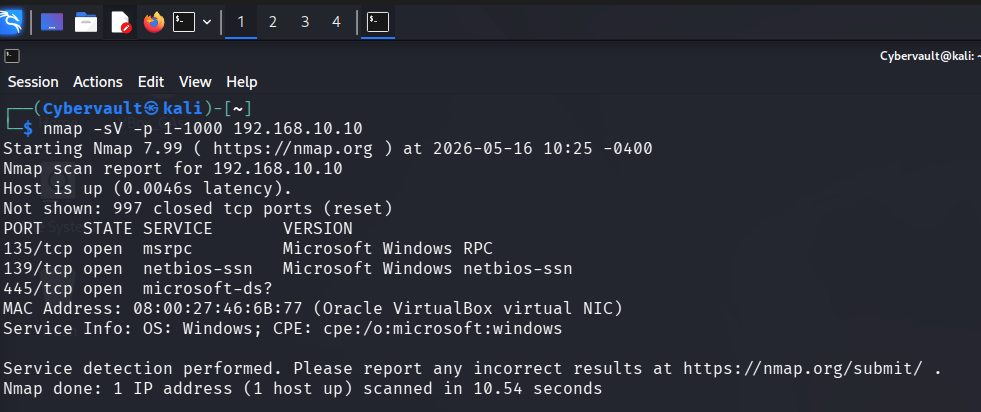
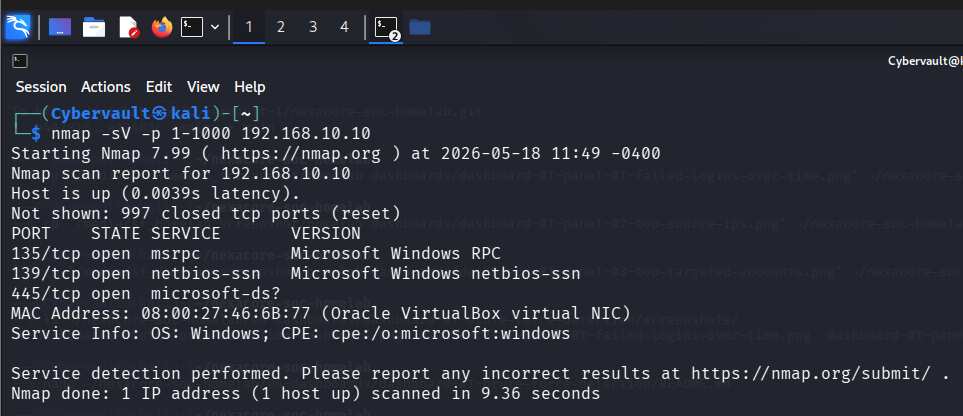
Rewrite sim-02 README with consistent structure, 18 May timestamps and fresh screenshots

Changed region(s): [[0.0, 0.0, 0.6854, 0.8155], [0.0, 0.8738, 0.9657, 0.9612], [0.8723, 0.1165, 1.0, 0.1748]]

diff --git a/03-attack-simulations/sim-02-nmap-reconnaissance/README.md b/03-attack-simulations/sim-02-nmap-reconnaissance/README.md
@@ -1,79 +1,126 @@
-# Simulation 02 — Nmap Reconnaissance
+# Attack Simulation 02 — Nmap Reconnaissance
 
-## Overview
+## Simulation Metadata
 
-This simulation replicates the reconnaissance phase of a real attack. Before an attacker launches any exploit, they first scan the target network to discover open ports and running services. This intelligence tells them which attack paths are available and what vulnerabilities to look for.
-
-This technique maps to MITRE ATT&CK T1046 — Network Service Discovery.
-
-## Attack Details
-
-| Field | Value |
-|---|---|
-| Attack Type | Network Port Scan |
-| Tool Used | Nmap 7.99 |
-| Attacker Machine | Kali Linux |
-| Attacker IP | 192.168.10.20 |
-| Target Machine | NEXACORE-WS01 |
-| Target IP | 192.168.10.10 |
-| Ports Scanned | 1 to 1000 |
+| Field | Detail |
+| --- | --- |
+| Simulation ID | SIM-02 |
+| Date | 18 May 2026 |
+| Author | Adedeji Adetayo |
+| Status | Complete |
 | MITRE Technique | T1046 — Network Service Discovery |
-| Date | 16 May 2026 |
+| Linked Detection | [DET-02 — Nmap Reconnaissance](../../04-detections/detection-02-nmap-reconnaissance/README.md) |
+| Linked Incident Report | [IR-002 — Nmap Reconnaissance](../../05-incident-reports/IR-002-nmap-reconnaissance/README.md) |
 
-## Attack Execution
+---
 
-The following command was run from Kali Linux to scan the target endpoint for open ports and identify running services:
+## Objective
 
-```bash
+The objective of this simulation was to perform a network port scan against NEXACORE-WS01 from Kali Linux using Nmap, and to verify that the scan generates detectable evidence in Splunk through Windows Filtering Platform Event ID 5156 connection events.
+
+This simulation replicates the reconnaissance phase of a real attack. Before launching any exploit, an attacker first scans the target to discover open ports and running services. This intelligence reveals which attack paths are available. In this environment discovering port 445 open directly connects to SIM-01, where the same port was targeted in a brute force attack, forming a realistic attack chain.
+
+---
+
+## Environment
+
+| Role | Machine | IP Address | OS |
+| --- | --- | --- | --- |
+| Attacker | Kali Linux | 192.168.10.20 | Kali Linux 2024.4 |
+| Target | NEXACORE-WS01 | 192.168.10.10 | Windows Server 2019 |
+| Domain Controller | NexaCore-DC01 | 192.168.10.1 | Windows Server 2019 |
+| SIEM | Splunk Enterprise | 192.168.56.1 | Host Machine |
+
+---
+
+## MITRE ATT&CK Mapping
+
+| Field | Detail |
+| --- | --- |
+| Tactic | Discovery |
+| Technique | Network Service Discovery |
+| Technique ID | T1046 |
+| Reference | https://attack.mitre.org/techniques/T1046/ |
+
+---
+
+## Prerequisites — Security Configuration That Enabled Detection
+
+The following configuration was applied to NEXACORE-WS01 before the simulation to ensure the scan activity would be captured in the Windows Security log and forwarded to Splunk.
+
+| Configuration | Detail |
+| --- | --- |
+| Windows Filtering Platform auditing enabled | The command `auditpol /set /subcategory:"Filtering Platform Connection" /success:enable /failure:enable` was run on NEXACORE-WS01. This instructs Windows to write Event ID 5156 to the Security log every time the firewall permits an inbound connection. Without this setting Nmap scan traffic would pass through silently with no log evidence. |
+| Splunk Universal Forwarder running | The forwarder was confirmed running and shipping Windows Security logs to Splunk before the scan was launched. |
+
+![Audit Policy Enabled](screenshots/02-nmap-recon-auditpol-enabled.png)
+
+---
+
+## Attack Flow Architecture
+
+```
+Kali Linux (192.168.10.20)
+        |
+        | Nmap port scan over Internal Network (ports 1-1000)
+        |
+        v
+NEXACORE-WS01 (192.168.10.10)
+        |
+        | Windows Filtering Platform logs inbound connections
+        | as Event ID 5156 in the Windows Security log
+        |
+        | Splunk Universal Forwarder ships logs (port 9997)
+        |
+        v
+Splunk Enterprise (192.168.56.1) — centralized log monitoring
+```
+
+---
+
+## Tools Used
+
+| Tool | Version | Purpose |
+| --- | --- | --- |
+| Nmap | 7.99 | Scan NEXACORE-WS01 for open ports and identify running services |
+
+---
+
+## Attack Steps
+
+### Step 1 — Run the Nmap service version scan
+
+The following command was run from Kali Linux to scan NEXACORE-WS01 for open ports across the first 1000 ports and identify the service running on each open port.
+
+```
 nmap -sV -p 1-1000 192.168.10.10
 ```
 
-The `-sV` flag instructs Nmap to probe each open port and identify the exact service and version running on it. The `-p 1-1000` flag limits the scan to the first 1000 ports.
-
-![Nmap Scan Results](screenshots/00-nmap-recon-scan-results.png)
-
-## Scan Results
+The `-sV` flag instructs Nmap to probe each open port and identify the exact service and version running on it. The `-p 1-1000` flag limits the scan to the first 1000 ports. Nmap completed the scan in 9.36 seconds.
 
 Nmap discovered three open ports on NEXACORE-WS01:
 
 | Port | State | Service |
-|---|---|---|
+| --- | --- | --- |
 | 135/tcp | Open | Microsoft Windows RPC |
 | 139/tcp | Open | Microsoft Windows NetBIOS |
 | 445/tcp | Open | Microsoft SMB |
 
-Port 445 being open is significant. This is the same port targeted in Simulation 01 — SMB Brute Force. A real attacker discovering port 445 open would immediately consider brute force or lateral movement techniques against SMB. This connects the two simulations into a realistic attack chain: reconnaissance leading directly into credential attack.
+Port 445 being open is significant. This is the same port targeted in SIM-01 — SMB Brute Force. A real attacker discovering port 445 open would immediately consider brute force or lateral movement techniques against the SMB service. This connects the two simulations into a realistic attack chain where reconnaissance leads directly into a credential attack.
 
-## Detection Method
+![Nmap Scan Results](screenshots/00-nmap-recon-scan-results.png)
 
-Sysmon Event ID 3 does not capture inbound scans because it only logs connections initiated by processes on the Windows machine itself. To detect an inbound Nmap scan, Windows Filtering Platform auditing was enabled using the following command on NEXACORE-WS01:
+---
 
-```powershell
-auditpol /set /subcategory:"Filtering Platform Connection" /success:enable /failure:enable
-```
+## Outcome
 
-This writes Event ID 5156 to the Windows Security event log every time the firewall permits an inbound connection. The Splunk Universal Forwarder then ships these events to Splunk for detection.
+The Nmap scan completed successfully and identified three open ports on NEXACORE-WS01. The scan generated 45 Event ID 5156 entries in the Windows Security log, all originating from 192.168.10.20. These events were forwarded to Splunk via the Universal Forwarder and are available for detection and analysis.
 
-![Audit Policy Enabled](screenshots/02-nmap-recon-auditpol-enabled.png)
+---
 
-## Splunk Detection
+## References
 
-The following query was used to surface the reconnaissance activity in Splunk:
-
-```spl
-index=main EventCode=5156 src_ip=192.168.10.20 | table _time, src_ip, dest_ip, dest_port, Direction | sort dest_port
-```
-
-Splunk captured 37 Event ID 5156 entries from Kali's IP address during the scan window. The repeated probing of the same ports from a single source IP within seconds is the detection fingerprint of an Nmap service version scan.
-
-![Splunk Detection](screenshots/01-nmap-recon-splunk-detection-5156.png)
-
-## Port Hit Summary
-
-Port 445 received 31 connection attempts, port 135 received 3, and port 139 received 3. The concentration of probes on port 445 reflects Nmap's service version detection sending multiple packets to fingerprint the SMB service.
-
-```spl
-index=main EventCode=5156 src_ip=192.168.10.20 | stats count by dest_port | sort dest_port
-```
-
-![Port Summary](screenshots/03-nmap-recon-ports-summary.png)
+- Detection writeup: [DET-02 — Nmap Reconnaissance](../../04-detections/detection-02-nmap-reconnaissance/README.md)
+- Incident report: [IR-002 — Nmap Reconnaissance](../../05-incident-reports/IR-002-nmap-reconnaissance/README.md)
+- MITRE ATT&CK T1046: https://attack.mitre.org/techniques/T1046/
+- Nmap official documentation: https://nmap.org/docs.html